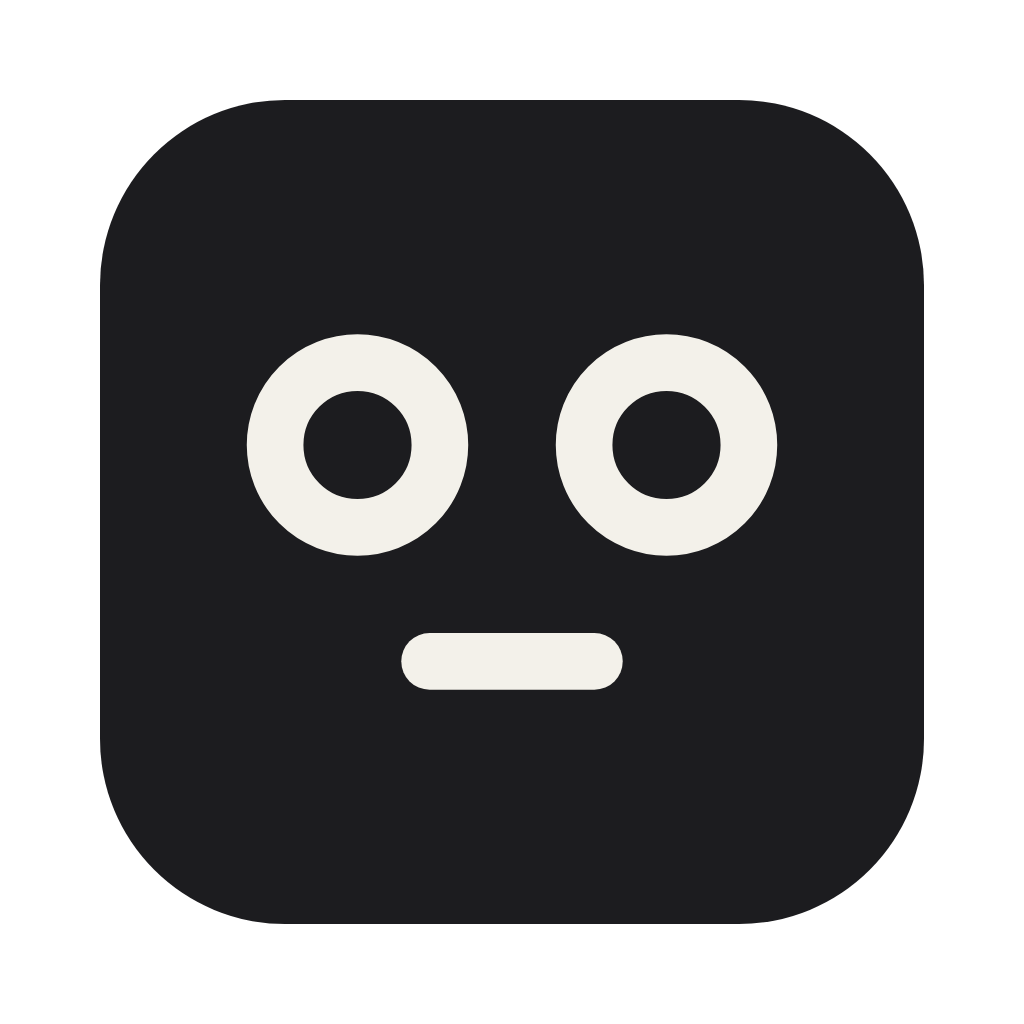
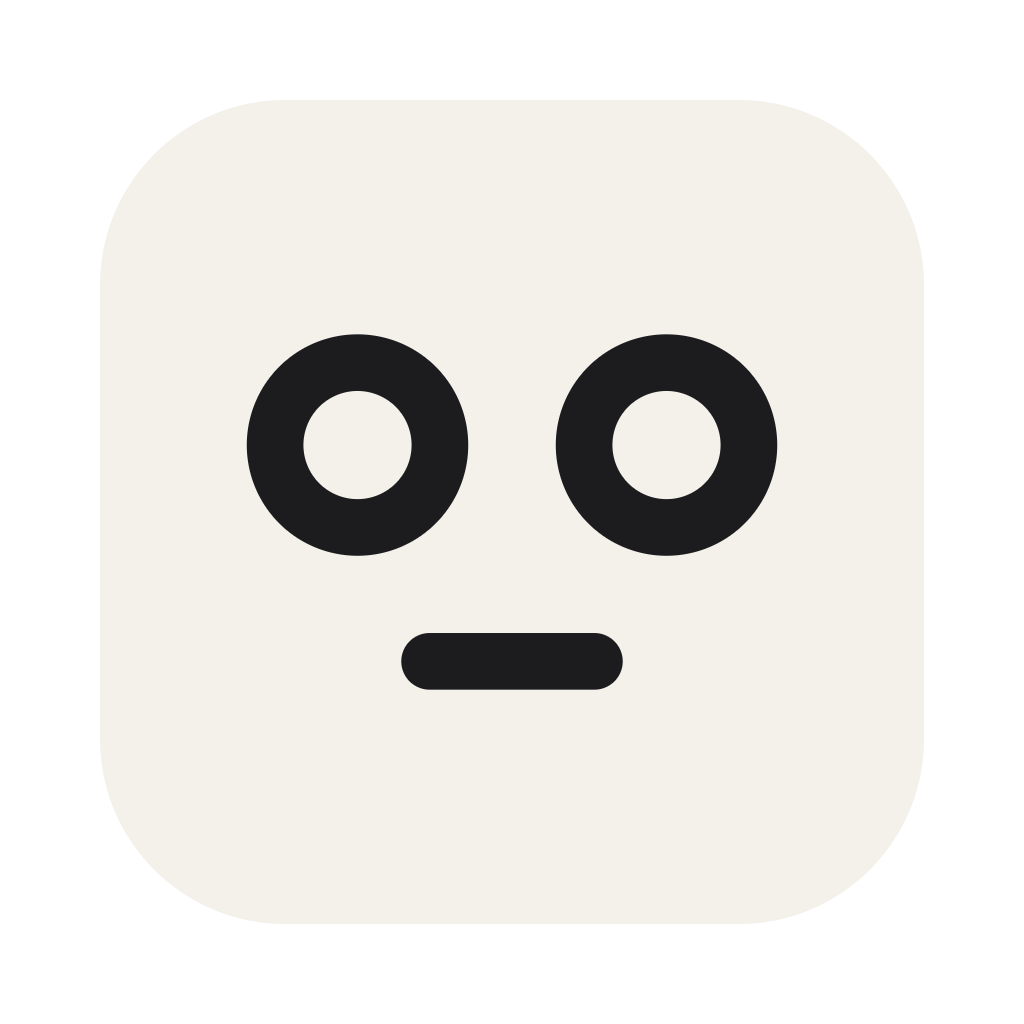
Ikona Gapy w odwróconych kolorach: prawie czarna twarz „o_o” na tle w złamanej bieli (wszystkie pliki wyrenderowane ze źródła)

diff --git a/CLAUDE.md b/CLAUDE.md
@@ -9,5 +9,5 @@ Tu są tylko zasady Gapy. Zasady wspólne dla wszystkich programów Michała (ws
 - Na Macu nie dublujemy rozwiązań systemowych: szybki podgląd spacją z Findera, pełny ekran i podgląd kilku plików naraz robi macOS. Te funkcje Gapy są tylko dla Windows.
 - Zależności budują się w wersjach z `package-lock.json` (`npm ci` w build.yml). Po zmianie zależności w `package.json` uruchom workflow „Odśwież package-lock.json” (`gh api repos/michallenczewski/gapa/actions/workflows/blokada-wersji.yml/dispatches -f ref=main`) — niczego nie buduje ani nie wydaje.
 - Gapa sama sprawdza nowe wersje w wydaniach GitHuba (`releases/latest`) i szuka pliku `Gapa-<wersja>-win-x64.exe` albo `Gapa-<wersja>-mac-<arm64|x64>.dmg`. Nie zmieniaj tych nazw ani nie oznaczaj wydań jako szkic czy wersja wstępna, bo aktualizacje przestaną działać. Wydanie zbudowane tylko dla jednego systemu staje się `latest` także dla drugiego, a ten nie znajdzie w nim swojego pliku i uzna, że aktualizacji nie ma; jeśli Michał prosi o jeden system, powiedz mu o tym i dobuduj drugi przy najbliższej okazji.
-- Ikony programu robimy według `../rodzina/ikony/WYTYCZNE_IKONY.md` (wspólne dla całej rodziny). Źródłem jest `projekt/logo/gapa.svg`; wszystkie PNG i ICO renderuje `python3 scripts/ikony.py`. Niczego w ikonach nie poprawiamy ręcznie. Obecna ikona to twarz „o_o” (dwa kółka i kreska w złamanej bieli na prawie czarnym tle), narysowana ręcznie w `gapa.svg`. Do szukania wariantów służy `../rodzina/ikony/edytor-ikony.html`.
+- Ikony programu robimy według `../rodzina/ikony/WYTYCZNE_IKONY.md` (wspólne dla całej rodziny). Źródłem jest `projekt/logo/gapa.svg`; wszystkie PNG i ICO renderuje `python3 scripts/ikony.py`. Niczego w ikonach nie poprawiamy ręcznie. Obecna ikona to twarz „o_o” (dwa kółka i kreska w prawie czarnym kolorze na tle w złamanej bieli), narysowana ręcznie w `gapa.svg`. Do szukania wariantów służy `../rodzina/ikony/edytor-ikony.html`.
 - Ruch, reakcje przycisków, segmenty, podpowiedzi i okienka: umiejętność `rodzina-interfejs` (wytyczne i wzorzec przycisków leżą w `../rodzina/`). Nowy przycisk dostaje `title="Nazwa (skrót)"` — Gapa sama zamienia go na własną podpowiedź i pokazuje skrót właściwy dla systemu.
